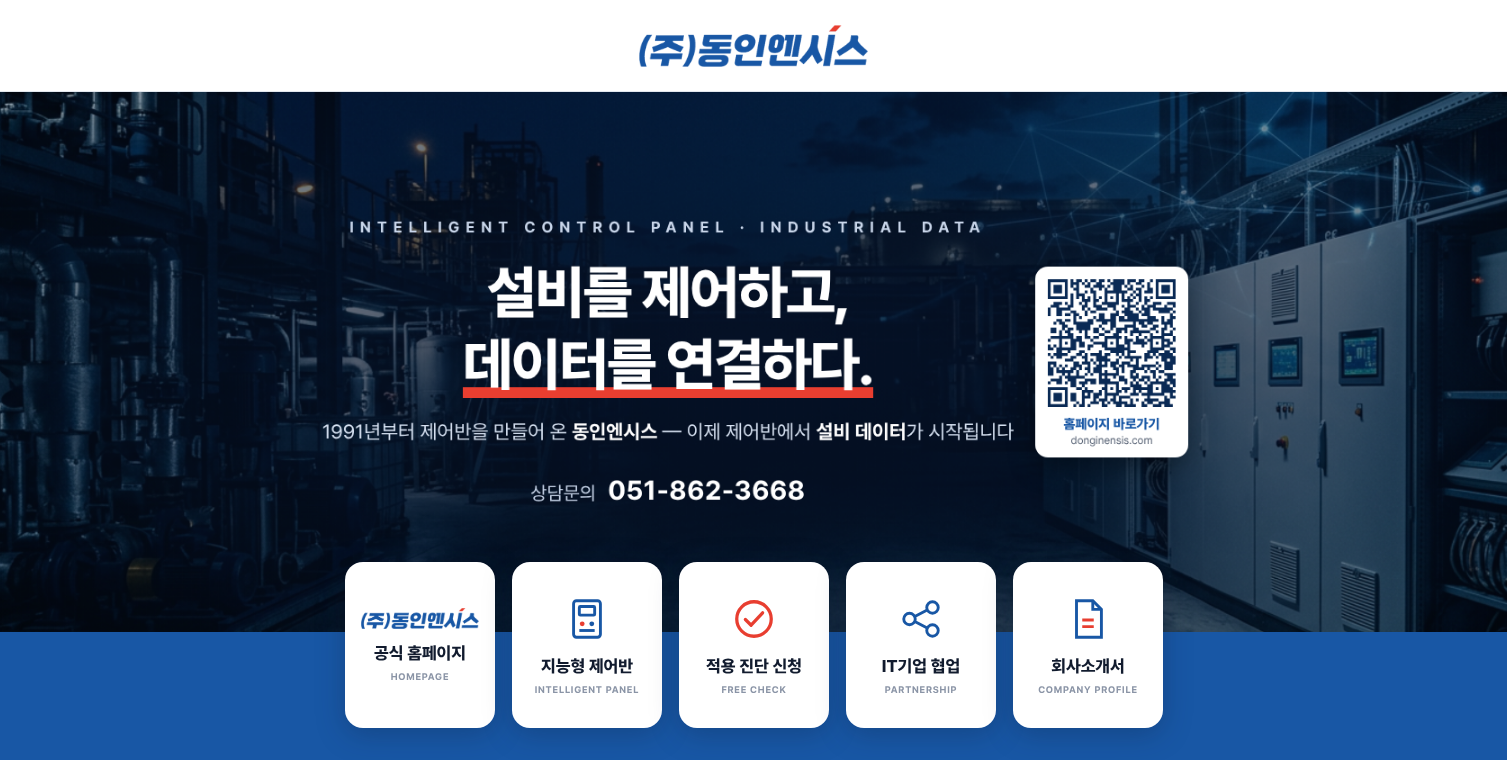
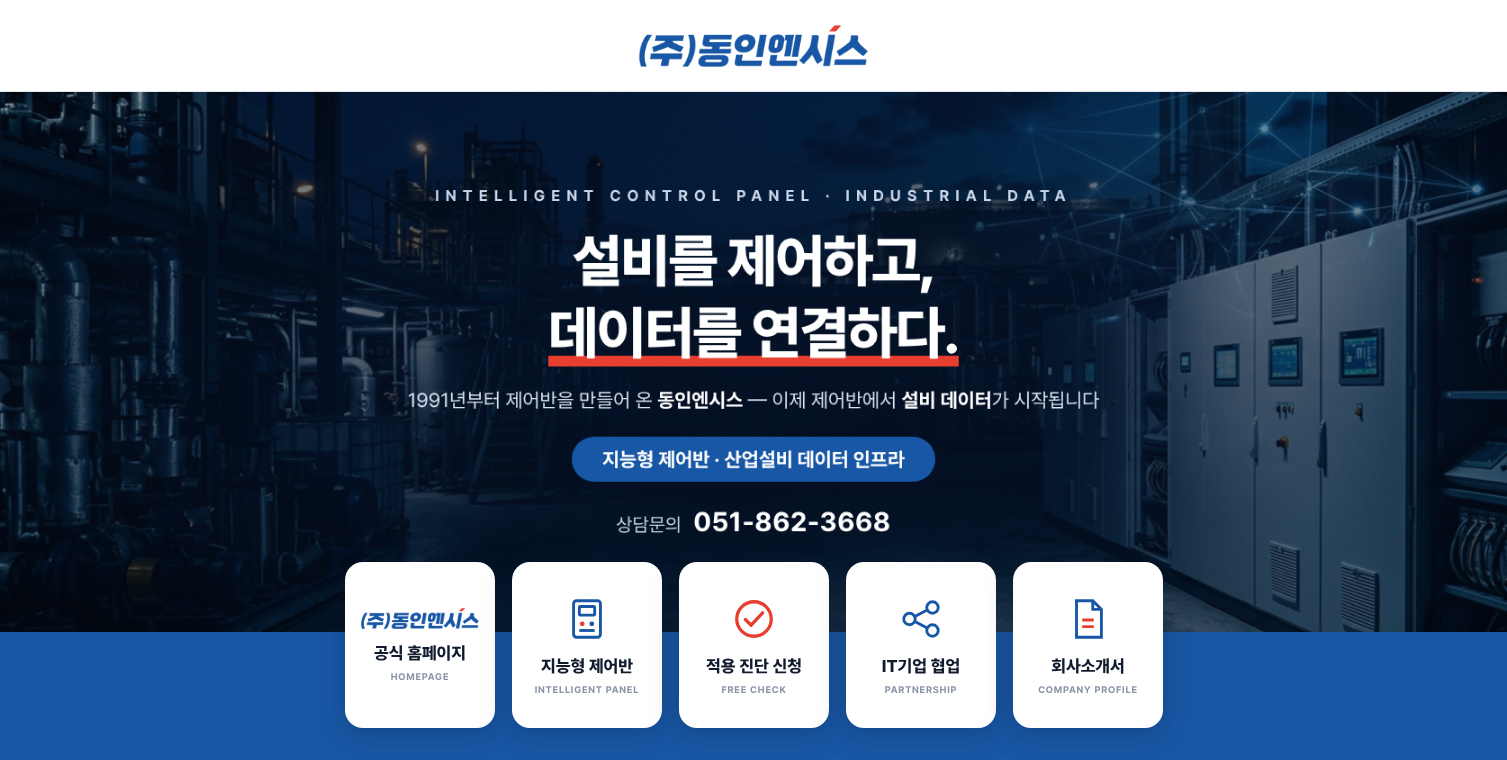
블로그 배너: QR 제거, 파란 띠 문구 복원
Claude-Session: https://claude.ai/code/session_01NXsXRUGdEyZ6oniYW4daEY

Changed region(s): [[0.2183, 0.2421, 0.8109, 0.6961]]

diff --git a/blog-design/images/hero.html b/blog-design/images/hero.html
@@ -2,16 +2,12 @@
 <div style="position:relative;width:100vw;height:100vh;overflow:hidden;background:#06142C">
 <img src="file:///home/user/donginensis-blog/blog-design/images/hero-photo.png" style="position:absolute;inset:0;width:100%;height:100%;object-fit:cover">
 <div style="position:absolute;inset:0;background:radial-gradient(60% 85% at 50% 48%, rgba(6,20,44,.86) 0%, rgba(6,20,44,.55) 60%, rgba(6,20,44,.25) 100%)"></div>
-<div style="position:relative;width:966px;height:100%;margin:0 auto;padding-right:190px;display:flex;flex-direction:column;align-items:center;justify-content:center;text-align:center;color:#fff">
+<div style="position:relative;width:966px;height:100%;margin:0 auto;display:flex;flex-direction:column;align-items:center;justify-content:center;text-align:center;color:#fff">
   <div style="font-size:17px;font-weight:600;letter-spacing:7px;color:#C9D6EA;margin-bottom:22px">INTELLIGENT CONTROL PANEL · INDUSTRIAL DATA</div>
   <div style="font-size:64px;font-weight:800;line-height:1.25;letter-spacing:-2px;margin-bottom:22px">설비를 제어하고,<br><span style="background:linear-gradient(transparent 84%, #E83E30 84%)">데이터를 연결하다.</span></div>
-  <div style="font-size:22px;color:#D5E0F0;margin-bottom:34px">1991년부터 제어반을 만들어 온 <b style="color:#fff">동인엔시스</b> — 이제 제어반에서 <b style="color:#fff">설비 데이터</b>가 시작됩니다</div>
+  <div style="font-size:22px;color:#D5E0F0;margin-bottom:28px">1991년부터 제어반을 만들어 온 <b style="color:#fff">동인엔시스</b> — 이제 제어반에서 <b style="color:#fff">설비 데이터</b>가 시작됩니다</div>
+  <div style="display:inline-block;background:#1857A5;color:#fff;font-size:22px;font-weight:700;padding:12px 34px;border-radius:40px;margin-bottom:26px">지능형 제어반 · 산업설비 데이터 인프라</div>
   <div style="font-size:21px;color:#C9D6EA">상담문의 <b style="font-size:30px;color:#fff;letter-spacing:.5px;margin-left:8px">051-862-3668</b></div>
-</div>
-<div style="position:absolute;right:calc(50% - 483px);top:50%;transform:translateY(-50%);width:170px;background:#fff;border-radius:14px;padding:14px 14px 12px;text-align:center;box-shadow:0 10px 30px rgba(0,0,0,.35)">
-  <img src="file:///home/user/donginensis-blog/blog-design/images/qr-homepage.svg" style="width:142px;height:142px;display:block">
-  <div style="font-size:15px;font-weight:800;color:#1857A5;margin-top:10px">홈페이지 바로가기</div>
-  <div style="font-size:12px;color:#5A6577;margin-top:2px">donginensis.com</div>
 </div>
 <div class="footer" style="display:none"></div>
 </div>

diff --git a/blog-design/README.md b/blog-design/README.md
@@ -7,8 +7,8 @@
 
 | 파일 | 용도 | 크기 |
 |---|---|---|
-| `images/hero.png` | 큰 배너 (스킨 배경 또는 타이틀). 상담문의 051-862-3668, 홈페이지 QR 포함. 글자와 QR은 가운데 966px 안에 있어 화면 폭이 달라도 잘리지 않음 | 1920×600 |
-| `images/qr-homepage.png` / `.svg` | 홈페이지 QR 단독 (명함·전단·글 끝 등에 재사용). 스캔 시 https://donginensis.com/?utm_source=naver_blog&utm_medium=qr | 정사각형 |
+| `images/hero.png` | 큰 배너 (스킨 배경 또는 타이틀). 상담문의 051-862-3668. 글자는 가운데 966px 안에 있어 화면 폭이 달라도 잘리지 않음 | 1920×600 |
+| `images/qr-homepage.png` / `.svg` | 홈페이지 QR (배너에는 넣지 않음. 명함·전단·전시회 자료용). 스캔 시 https://donginensis.com/?utm_source=naver_blog&utm_medium=qr | 정사각형 |
 | `images/btn-1-home.png` | 버튼 1: 공식 홈페이지 (지금과 같음) | 150×166 |
 | `images/btn-2-panel.png` | 버튼 2: 지능형 제어반 | 150×166 |
 | `images/btn-3-check.png` | 버튼 3: 적용 진단 신청 | 150×166 |
